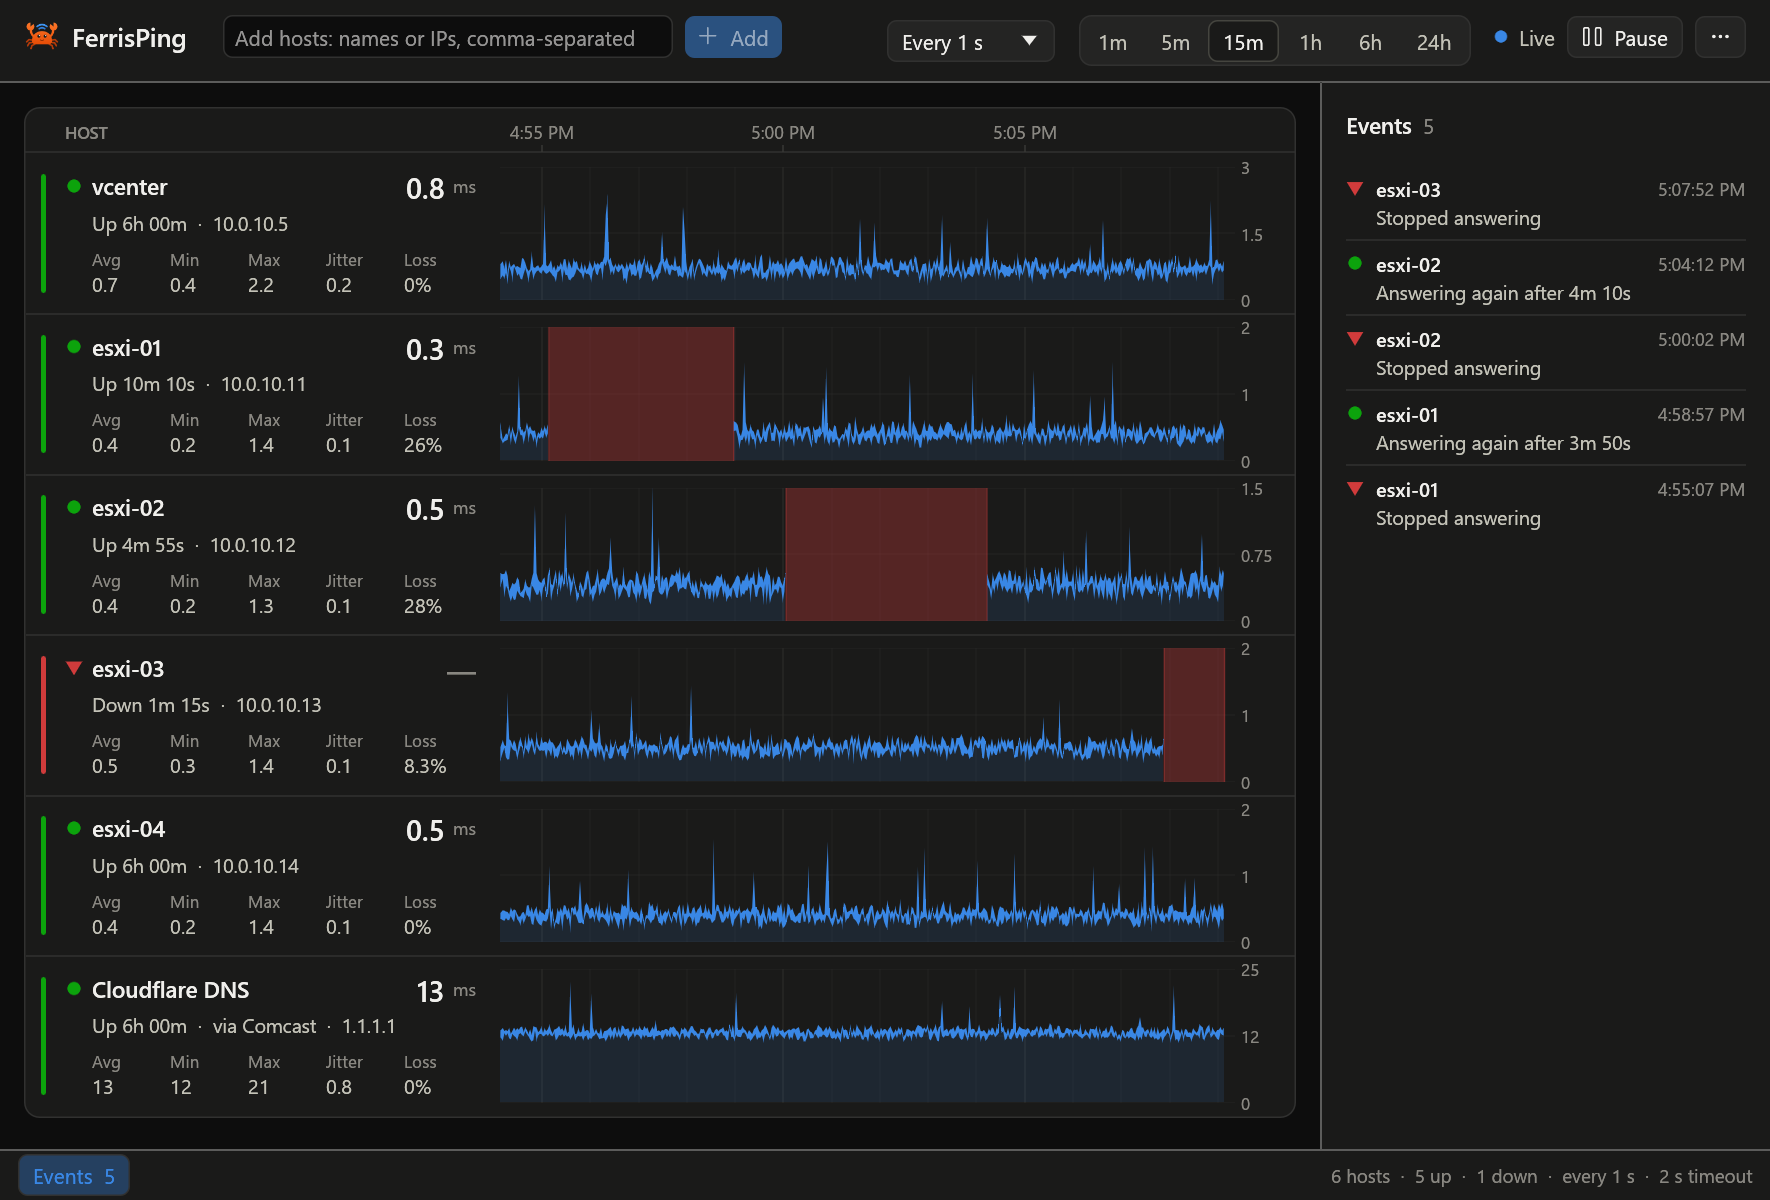
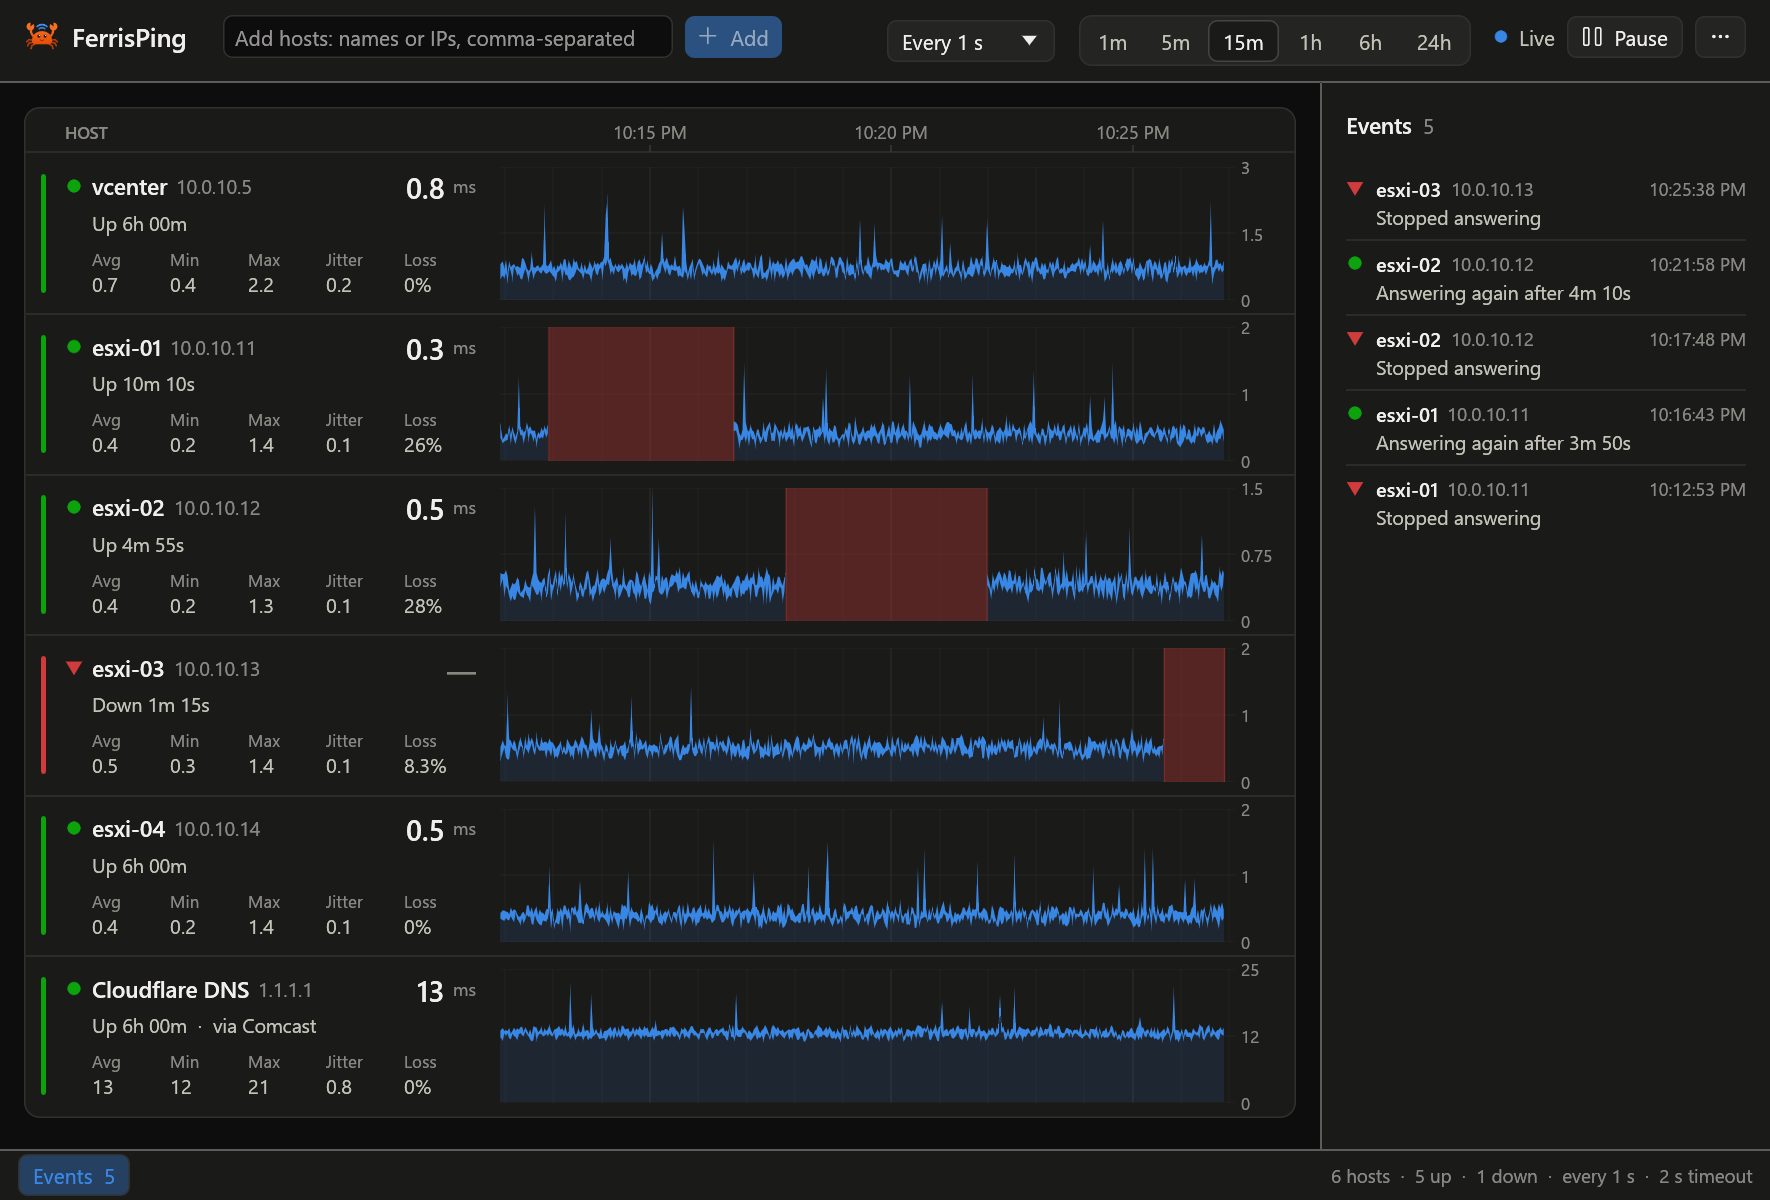
Redraw the screenshots, and bring the website up to date
The README's screenshots now show each host's address beside its name,
as lanes and events do. The website's images are made again from them;
its icons come out the same.

The website gets cards for names of your own, alerts with the tray
icon, and jitter strips. That's nine, so three full rows at desktop
width. Install and the command line say what the README says about
alerts, the tray and the copy that's already running, and the roadmap
keeps only email alerts.

diff --git a/site/public/index.html b/site/public/index.html
@@ -74,8 +74,16 @@
           <p>The current round trip, average, minimum, maximum, jitter and loss, with a graph of the last minute up to the last 24 hours. Drag or zoom a graph to look back, and double-click it to go back to live.</p>
         </li>
         <li>
+          <h3>Names of your own</h3>
+          <p>Give a host a name when you add it, or later by right-clicking its lane and choosing <strong>Rename&hellip;</strong>, which keeps its graph. Its address shows beside the name, in the lane and in the events list.</p>
+        </li>
+        <li>
           <h3>Outages logged</h3>
           <p>A host that misses 3 replies in a row is marked down. The events list notes when it went down, when it came back and how long it was out.</p>
+        </li>
+        <li>
+          <h3>Alerts as Windows notifications</h3>
+          <p>When a host stops answering and answers again, when its traffic switches to another network, and when its loss or round trips cross limits you set, for every host or for one. They come from FerrisPing's tray icon, so nothing goes over the network. Turn on <strong>Keep running in the tray when closed</strong> to keep pinging with the window closed.</p>
         </li>
         <li>
           <h3>Continuous traceroute</h3>
@@ -88,6 +96,10 @@
         <li>
           <h3>Quick to fill</h3>
           <p>Add names or addresses separated by commas, ranges like <code>10.0.0.1-20</code> or <code>10.0.0.1-10.0.0.20</code>, a subnet up to a /24 like <code>10.0.0.0/24</code> (without its network and broadcast addresses), IPv6 addresses, and a label after an address (<code>10.0.0.5 Office edge</code>).</p>
+        </li>
+        <li>
+          <h3>Jitter strips</h3>
+          <p>Turn on <strong>Show jitter under graphs</strong>, in More options (&#8943;), for a strip under each graph with jitter: how much the round trip changes from one reply to the next, on a scale of its own. With many hosts, lanes are too short for it, and hovering a graph shows jitter instead.</p>
         </li>
         <li>
           <h3>No admin rights, no installer</h3>
@@ -165,10 +177,11 @@
       <h2>Install</h2>
       <p><a href="https://github.com/sknnr-chad/ferrisping/releases/latest/download/ferrisping.exe">Download <code>ferrisping.exe</code></a> and run it. It runs on Windows 10 and 11. The <a href="https://github.com/sknnr-chad/ferrisping/releases/latest">latest release</a> on GitHub has its release notes and SHA-256.</p>
       <p class="callout">The exe isn't <a href="#code-signing-policy">code-signed</a> yet, so your browser may ask whether to keep it, and Windows SmartScreen may warn about it the first time: choose <strong>More info</strong>, then <strong>Run anyway</strong>.</p>
-      <p>It keeps your hosts, interval, time window, theme and network names in <code>%APPDATA%\FerrisPing</code>. Graphs and events are kept in memory only, so they start fresh each time. To uninstall FerrisPing, delete <code>ferrisping.exe</code> and that folder.</p>
+      <p>It keeps your hosts, interval, time window, theme, network names and alerts in <code>%APPDATA%\FerrisPing</code>. Graphs and events are kept in memory only, so they start fresh each time. To uninstall FerrisPing, delete <code>ferrisping.exe</code> and that folder.</p>
+      <p>Like any program with a tray icon, FerrisPing then shows up in Windows' own lists of tray icons (Settings &rsaquo; Personalization &rsaquo; Taskbar) and of programs that send notifications (Settings &rsaquo; System &rsaquo; Notifications, where you can turn its notifications off). Windows keeps those lists itself; FerrisPing doesn't write to the registry.</p>
       <h3>Command line</h3>
       <pre><code>ferrisping <span class="nw">[hosts...]</span> <span class="nw">[--interval 0.5]</span> <span class="nw">[--window 15m]</span> <span class="nw">[--theme dark|light|system]</span> <span class="nw">[--route &lt;host&gt;]</span></code></pre>
-      <p>Hosts given on the command line start a one-off session that isn't saved. <code>--route &lt;host&gt;</code> also opens that host's route.</p>
+      <p>Hosts given on the command line start a one-off session that isn't saved. <code>--route &lt;host&gt;</code> also opens that host's route. A session runs on its own, while starting FerrisPing again without hosts opens the copy that's already running, even from the tray.</p>
       <p>To build it yourself, see <a href="https://github.com/sknnr-chad/ferrisping#building-from-source">Building from source</a>.</p>
     </div>
   </section>
@@ -188,7 +201,7 @@
   <section id="next" class="section alt">
     <div class="wrap narrow">
       <h2>What's next</h2>
-      <p>FerrisPing is new. Windows comes first, and macOS and Linux are next. After that: alerts (tray, sound, email), saved host groups and TCP port checks. There are no dates.</p>
+      <p>FerrisPing is new. Windows comes first, and macOS and Linux are next. After that: email alerts, saved host groups and TCP port checks. There are no dates.</p>
       <p>Found a bug, or have an idea? <a href="https://github.com/sknnr-chad/ferrisping/issues">Open an issue on GitHub</a>. Pull requests are welcome too. FerrisPing is a small project looked after in spare time, so answers may take a while.</p>
     </div>
   </section>
